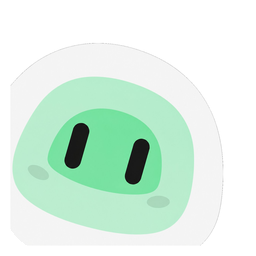
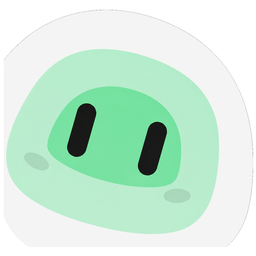
关于页图标裁到贴边，容器改为白底
- icon_mark.png 按非白像素 bbox 重新裁切（留 3%），白边从 12% 收到 3%
- 容器底色改为纯白、去掉 hairline：图标本身是白底板，容器用别的颜色会形成一圈色环

diff --git a/lib/features/settings/about_page.dart b/lib/features/settings/about_page.dart
@@ -98,10 +98,12 @@ class _AboutPageState extends State<AboutPage> {
                   width: 66,
                   height: 66,
                   decoration: BoxDecoration(
+                    // The mark itself is a white plate, so the container is
+                    // white too: painting it any other colour produced a visible
+                    // ring around the artwork. A shadow alone separates it from
+                    // the card.
+                    color: Colors.white,
                     borderRadius: BorderRadius.circular(tk.style.isSharp ? 4 : 16),
-                    // The mark is a white plate; without a hairline its edge
-                    // bleeds into the card and reads as a dirty white border.
-                    border: Border.all(color: tk.hairline),
                     boxShadow: tk.cardShadow,
                   ),
                   clipBehavior: Clip.antiAlias,
